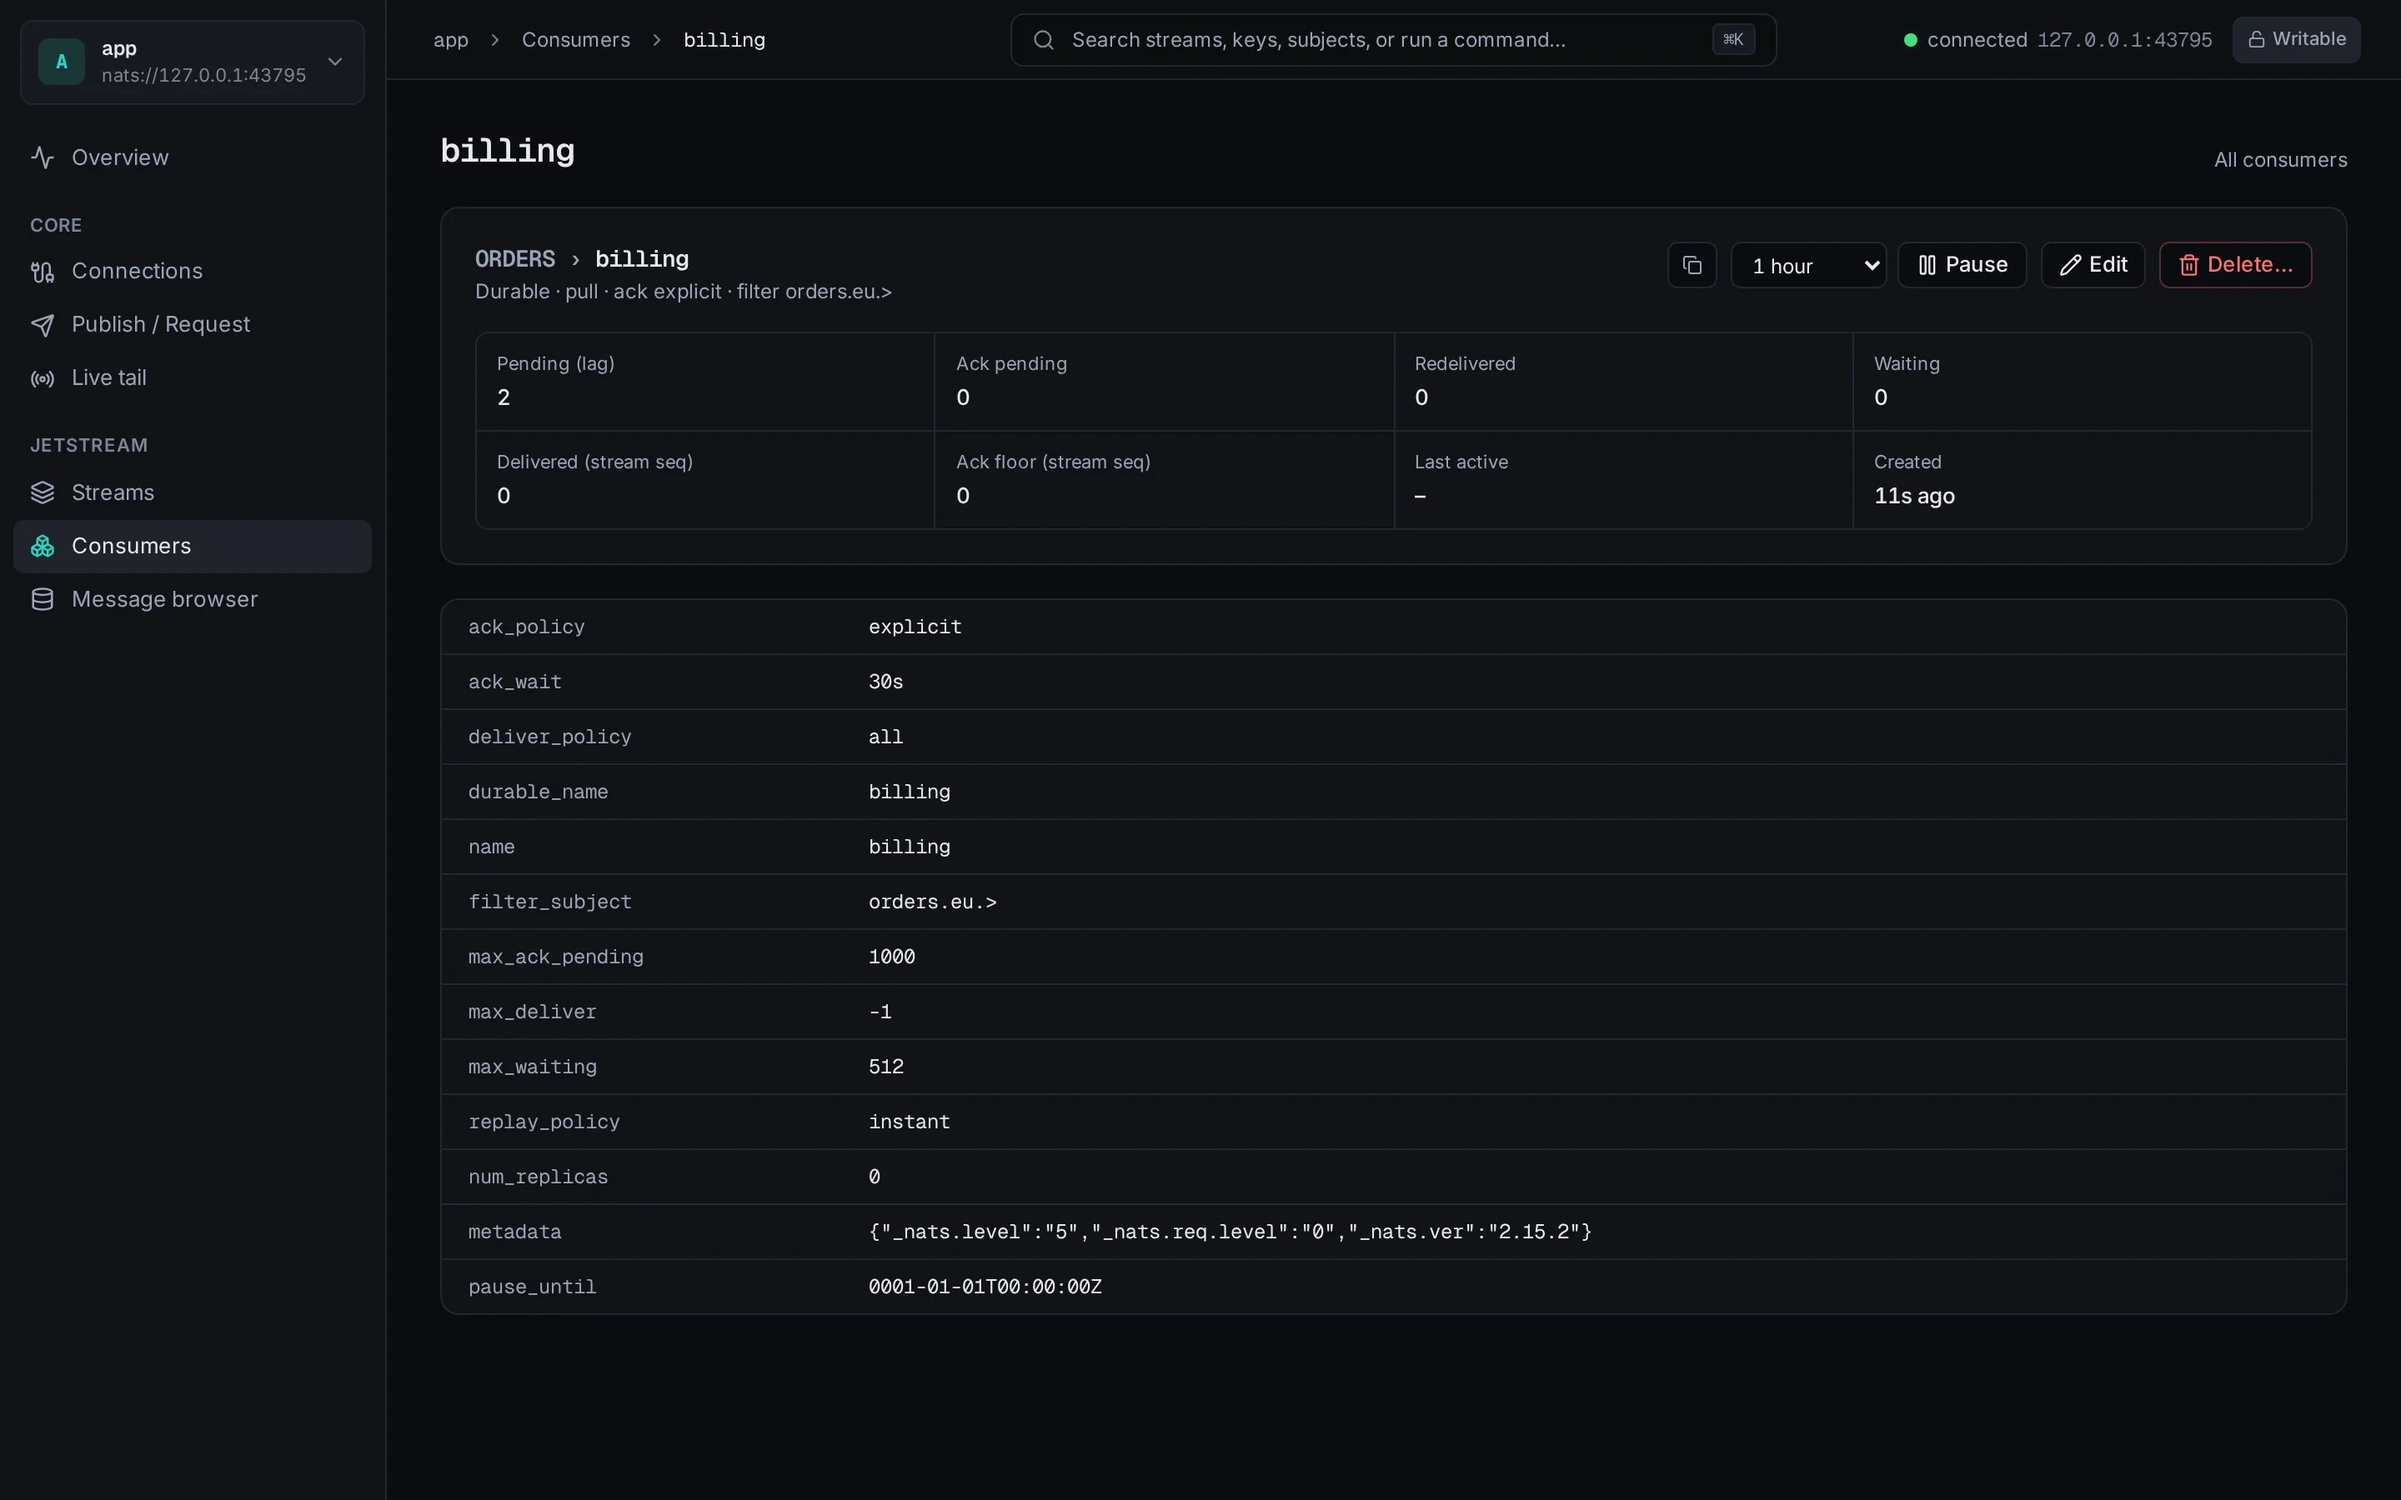
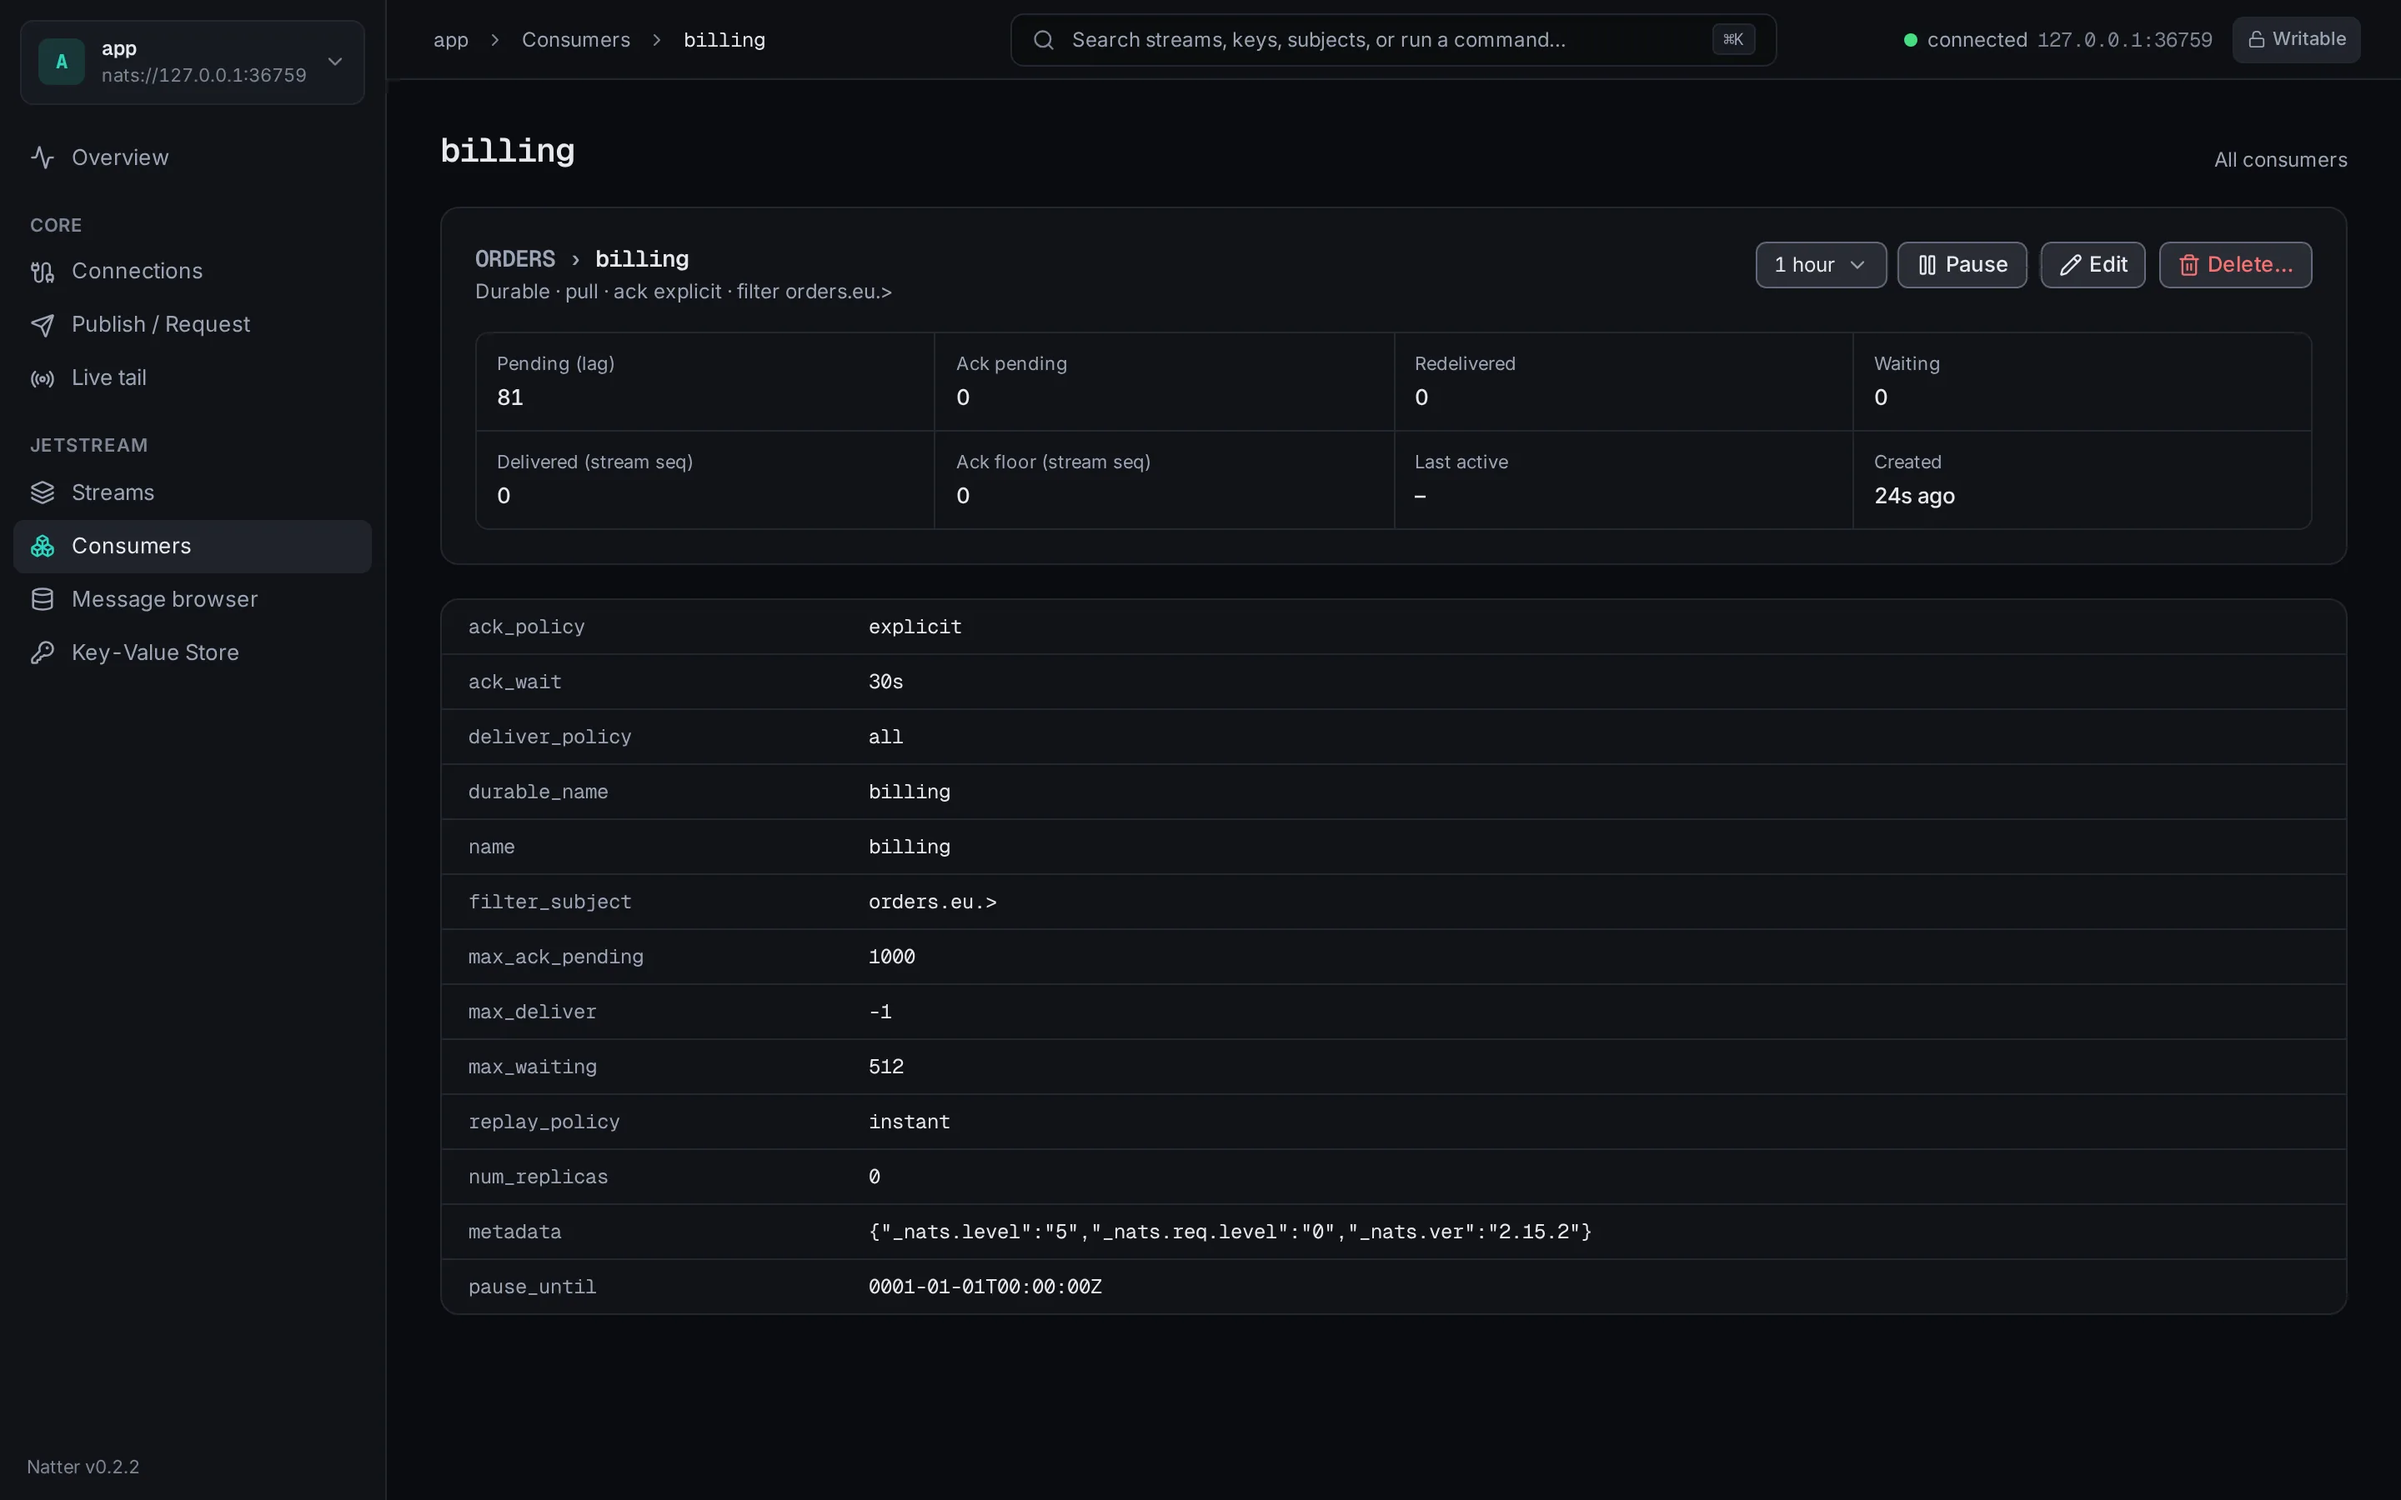
docs(site): recapture the screenshots and add the capture script (#24)

Changed region(s): [[0.7188, 0.1556, 0.9688, 0.2178]]

diff --git a/site/README.md b/site/README.md
@@ -21,7 +21,11 @@ python3 -m http.server -d site/dist 8099  # preview at http://127.0.0.1:8099
   `<!-- description: … -->` comment, no `<h1>`) and add it to `nav` in
   `build.mjs`. Every `<h2>` lands in "On this page".
 - **Screenshots** in `src/assets/screens/` are real captures of the app
-  against `internal/e2eserver`, at 2× and saved as WebP.
+  against `internal/e2eserver`, at 2× and saved as WebP. `node site/capture.mjs`
+  rebuilds `web`, starts the server with demo order traffic and recaptures
+  them all; name some (`node site/capture.mjs tail publish`) to redo only
+  those. It needs Go, ImageMagick and `npm ci` plus `npx playwright install
+  chromium` in `web`.
 
 ## Publish
 
